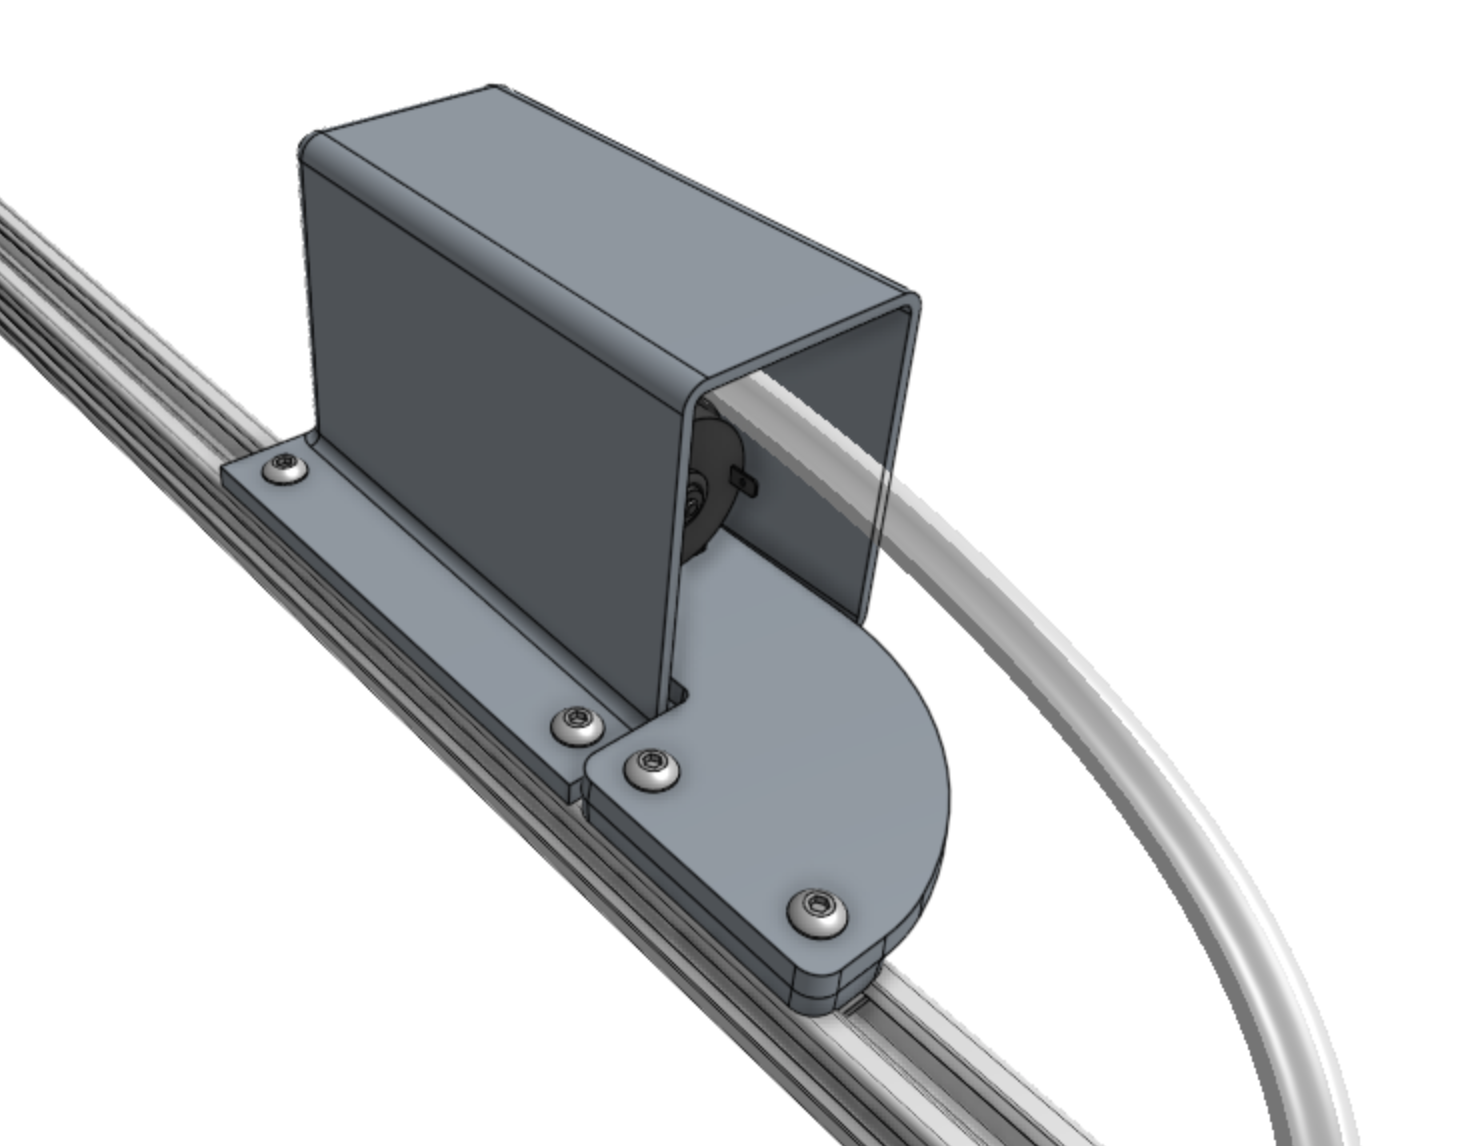
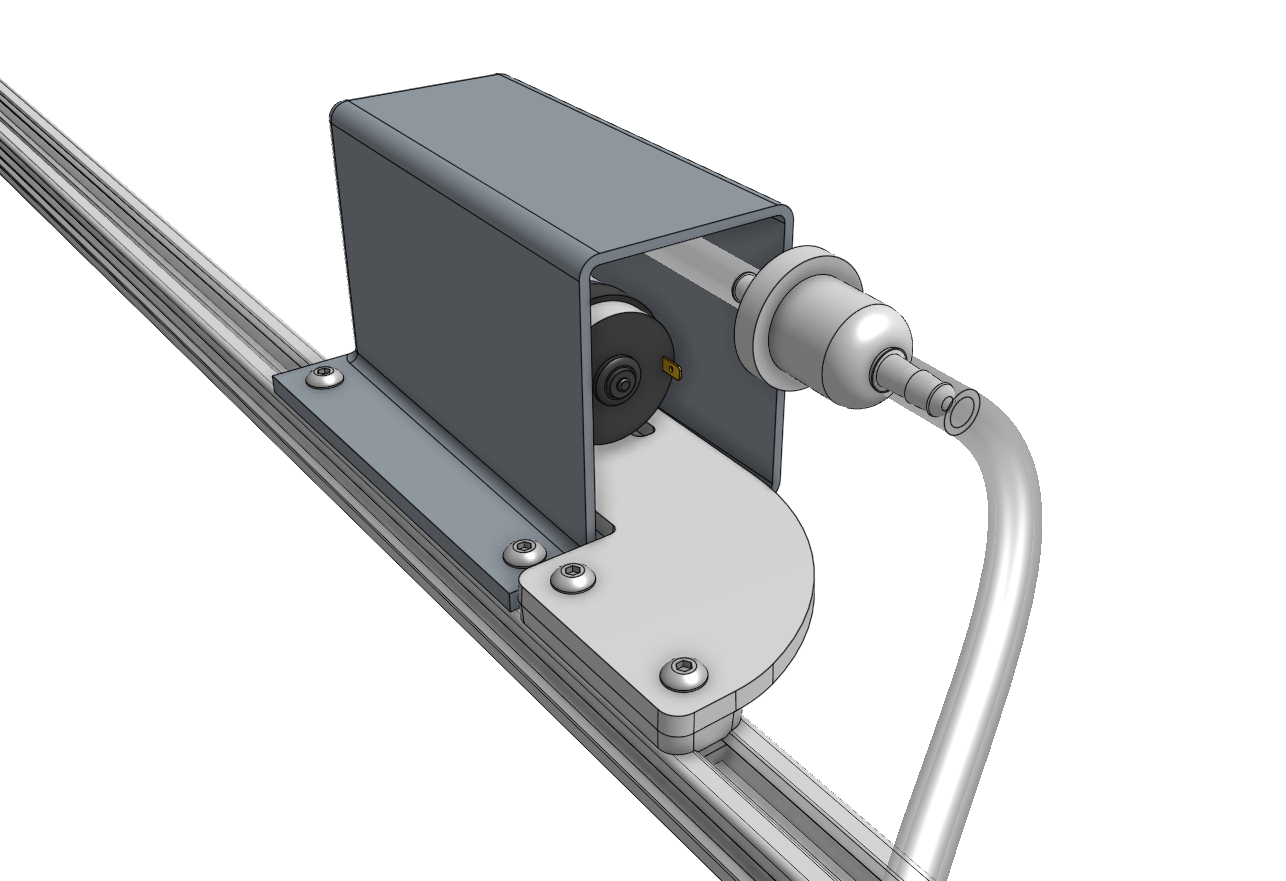
vacuum pump pre-assembly and troubleshooting (#7)

Changed region(s): [[0.0, 0.0613, 0.9331, 1.0]]

diff --git a/v1.0/Extras/seeds.md b/v1.0/Extras/seeds.md
@@ -1,0 +1,90 @@
+---
+title: "Seeds"
+slug: "seeds"
+description: "Tips for selecting seeds to use with FarmBot"
+---
+
+* toc
+{:toc}
+
+There are three main considerations when choosing what to plant with FarmBot:
+1. [Plant size and shape](#plant-size-and-shape)
+2. [Crop requirements](#crop-requirements)
+3. [Seed size](#seed-size)
+
+# Plant size and shape
+
+{%
+include callout.html
+type="success"
+title="The optimal choice"
+content="The most optimal crops for FarmBot are small to medium in size and grow in a relatively predictable shape. For example: Kale, Spinach, Lettuce, Arugula, Chard, Beets, and Bok Choy."
+%}
+
+{%
+include callout.html
+type="warning"
+title="Tall crops and FarmBot's gantry don't mix"
+content="Tall crops such as Corn or Sunflowers that will grow to exceed the ~0.5m height of the gantry are not recommended to be grown in the main space of the FarmBot's raised bed. Such crops may prevent FarmBot from moving, or the FarmBot may destroy the plants once they are too tall.
+
+You _can_ grow tall crops at the very ends of the bed, where they will not prevent the gantry from moving."
+%}
+
+{%
+include callout.html
+type="warning"
+title="Use caution with indeterminate crops"
+content="Crops that grow in an indeterminate fashion such as Watermelon or Pumpkin may cause interference with FarmBot's movements because the plants may grow in unexpected directions or fruit in unexpected locations. Indeterminate crops may also cause issues with weed detection, with the potential to significantly hinder performance or create false detections. Vining plants such as Tomatoes may grow to interfere with FarmBot rolling along the bed, causing a hardware jam.
+
+You _can_ grow indeterminate crops at the very ends of the bed, where they can be trained (by hand) to grow out and away from the FarmBot's mechanical systems."
+%}
+
+# Crop requirements
+
+As with all methods of growing, you will need to choose crops that are well suited for your geographic location, FarmBot location, soil conditions, and the time of year. Specific things to consider include:
+
+* Sun requirements (full sun, partial sun, etc)
+* Optimal soil properties (well draining, high carrying capacity, etc)
+* Minimum and maximum temperatures
+* Threat of frost, high winds, birds, harmful insects, etc
+* Planting depth
+* Recommended planting season
+* Transplanting/thinning needs
+
+{%
+include callout.html
+type="success"
+title="Tap into local knowledge"
+content="We recommend visiting your local nursery, hardware store, or gardening club and talking to an expert for your area. They will be able to recommend crops based on your conditions. If there are no experts available, use the information on the back of the seed packets and get ready to experiment!"
+%}
+
+# Seed size
+
+## Planting with FarmBot
+
+The seeder uses a luer lock needle implement design, so different needle diameters can be used for different sizes of seed. Lettuces, Kale, and Chard seeds will all work fine. Extremely small seeds have the possibility of being sucked into the vacuum system, while very large/heavy seeds may be difficult to pick up. Remember that FarmBot can only plant seeds, so starter plants and bulbs can only be used if planted [manually](#manual-planting).
+
+## Pelleted seeds
+
+Many seeds are very small, lightweight, and/or irregularly shaped. Seeds of this nature can be difficult for FarmBot to work with:
+
+* Too many seeds may get sucked onto the needle at once.
+* Seeds may get sucked through the needle and clog the vacuum pump.
+* Irregular seed surfaces may prevent reliable suction holding power.
+
+If you encounter problems with the seeds you want to use, we recommend purchasing **pelleted seeds**. Pelleted seeds are seeds coated with a biodegradable material that ensures they are of a uniform size and shape (usually a sphere). Pelleted seeds are specifically designed for use with farming equipment because they are easier and more reliable for machines to work with. When using pelleted seeds with FarmBot, your FarmBot will be able to more reliably pick up one seed at a time and place it in its intended location.
+
+There are many online suppliers of pelleted seeds, such as [Johnny's Seeds](https://www.johnnyseeds.com/featured/pelleted-seeds/) and [High Mowing Seeds](https://www.highmowingseeds.com/pelleted-seed-varieties.html). You may also be able to find pelleted seeds locally.
+
+## Manual planting
+
+If a seed won't work with any size of luer lock seeder needle, you can still grow it with FarmBot. Examples include tubers, bulbs, or very small seeds like those of an Orchid.
+
+For manual planting, we recommend first adding the plants to your farm designer map in the web app. Then, you can instruct FarmBot to move to each plant location and either point or poke a hole in the ground where the plant should be. Then you can either drop some seeds in the hole, or dig and plant a bulb.
+
+{%
+include callout.html
+type="success"
+title="Share your experience"
+content="Tried out a new crop? Share how things went on the [community forum](http://forum.farmbot.org)!"
+%}

diff --git a/v1.0/manufacturing/pre-assembly/z-axis.md b/v1.0/manufacturing/pre-assembly/z-axis.md
@@ -36,6 +36,7 @@ description: "Pre-assembly instructions for the FarmBot Express and Express XL Z
 |200mm Zip Tie                 |2
 
 # Step 1: Mount the vacuum pump
+
 Attach the **vacuum pump mount** to the the **z-axis extrusion** using two **M5 x 16mm screws** and one **60mm nut bar**. The bottom of the mount should be 185mm from the bottom of the extrusion.
 
 ![z axis extrusion with vacuum pump mount](_images/z_axis_extrusion_with_vacuum_pump_mount.png)
@@ -44,20 +45,25 @@ Securely tighten the **vacuum pump** onto the **vacuum pump mount** using two **
 
 ![vacuum pump on mount closeup](_images/vacuum_pump_on_mount_closeup.png)
 
-Press one of the **vacuum tubes** onto the inlet of the **vacuum pump**. Then press the **inline filter** onto the open end of the tube. Then press the second vacuum tube onto the open end of the inline filter.
+Press one of the **vacuum tubes** onto the **inlet** of the **vacuum pump**. Then press the **inline filter** onto the open end of the tube. Then press the second vacuum tube onto the open end of the inline filter.
 
+{% include gallery.html images="
+![vacuum pump inlet](_images/vacuum_tube_assembly_inlet_detail.png)
 ![vacuum tube assembly](_images/vacuum_tube_assembly.png)
+" %}
 
 Attach the **vacuum pump housing** to the **z-axis extrusion** using two **M5 x 10mm screws** and **10mm nut bars**.
 
 ![vacuum pump housing](_images/vacuum_pump_housing.png)
 
 # Step 2: Mount the cable carrier supports
+
 Attach the four **40mm vertical cable carrier supports** to the **z-axis extrusion** using **M5 x 10mm screws** and **40mm nut bars**. The space between all supports should be 180mm.
 
 ![mount z-axis cable carrier supports](_images/mount_z-axis_cable_carrier_supports.png)
 
 # Step 3: Mount the motor
+
 Attach the **z-axis motor mount** to the **z-axis extrusion** using two **M5 x 10mm screws** and one **60mm nut bar**. The recessed lip of the motor mount should be 60mm from the top of the extrusion.
 
 ![z axis motor mount](_images/z_axis_motor_mount.png)
@@ -65,8 +71,6 @@ Attach the **z-axis motor mount** to the **z-axis extrusion** using two **M5 x 1
 Position the **motor** on the mount with the motor's connector facing the extrusion. Then secure the motor in place with four **M3 x 12mm screws**.
 
 ![z axis motor](_images/z_axis_motor.png)
-
-
 
 {%
 include callout.html
@@ -76,6 +80,7 @@ content="The following step requires the [z-axis cable carrier to be loaded with
 %}
 
 # Step 4: Mount the cable carrier
+
 Position the **loaded z-axis cable carrier** in the **cable carrier supports** such that the camera is located at the bottom of the extrusion. Secure the cable carrier to the **vertical cable carrier support** using two **M5 x 16mm screws** and **M5 flange locknuts**.
 
 {% include gallery.html images="
@@ -86,20 +91,23 @@ Position the **loaded z-axis cable carrier** in the **cable carrier supports** s
 _Note: not all cables are shown_
 
 # Step 5: Connect the z-axis motor cable
+
 Feed the **z-axis motor cable** up through the slots in the four **cable carrier supports** and the slot in the **z-axis motor mount**. Then plug the cable into the **motor**.
 
 ![z axis with motor cable highlighted](_images/z_axis_with_motor_cable_highlighted.png)
 
 # Step 6: Connect the vacuum pump cable
+
 Feed the **vacuum pump cable** up through the slot in the first **cable carrier support** and then plug the connectors into the **vacuum pump's terminals**.
 
-
 # Step 7: Mount the motor housing
+
 Mount the **50mm vertical motor housing** using two **M5 x 10mm screws** and one **60mm nut bar**. The housing should fit snugly in the motor mount's recessed lip. The top of the motor housing should also be flush with the top of the extrusion, which may require a slight adjustment of the motor mount's position.
 
 ![z axis with motor housing closeup](_images/z_axis_with_motor_housing_closeup.png)
 
 # Step 8: Attach the leadscrew
+
 Insert the **leadscrew** fully into the **5mm to 8mm shaft coupler** and tighten the setscrews.
 
 ![z axis leadscrew with shaft coupler](_images/z_axis_leadscrew_with_shaft_coupler.png)
@@ -107,7 +115,3 @@ Insert the **leadscrew** fully into the **5mm to 8mm shaft coupler** and tighten
 Slide the **5mm to 8mm shaft coupler** onto the **motor shaft**, ensuring that the setscrews are aligned with the flat sides of the motor shaft. Ensure there is approximately 1-3mm of space between the end of the motor shaft and the end of the leadscrew - they should **not** be touching inside the coupler. Tighten the setscrews.
 
 ![z axis with leadscrew](_images/z_axis_with_leadscrew.png)
-
-
-
-

diff --git a/v1.0/Extras/troubleshooting/picking-up-seeds.md b/v1.0/Extras/troubleshooting/picking-up-seeds.md
@@ -1,0 +1,40 @@
+---
+title: "Picking Up Seeds"
+slug: "picking-up-seeds"
+description: "The FarmBot fails to pick up seeds entirely, frequently drops seeds when moving, or sucks seeds fully into the needle or vacuum system."
+---
+
+* toc
+{:toc}
+
+# 1. Consider seed characteristics
+
+Seed size, weight, and shape can have considerable impact on the effectiveness and reliability of FarmBot's needle and vacuum pump based seeding mechanism. Seeds should not be excessively small or large, cannot be too heavy, and are ideally of a round, smooth shape. [Pelleted seeds](../seeds.md#pelleted-seeds) are specifically designed for use with farming equipment and are an ideal choice for use with FarmBot. Consult the [seeds page](../seeds.md) for more details.
+
+# 2. Choose the correct needle size
+
+Included with every FarmBot kit are three different luer lock needle sizes that can be easily swapped in and out of the seed injector. This allows you to choose the best needle size for the seeds you are working with. Generally speaking, a larger diameter needle should be used for larger, heavier seeds, while a smaller diameter needle should be used for smaller, lighter seeds. See the [seeds](../seeds.md) page for more details.
+
+If the needle is too small, then the vacuum pump will not be able to create enough suction to consistently and reliably pick up a larger, heavier seed. In some cases, the seed may get picked up but then dropped when FarmBot is moving in the X, Y, and Z directions. In either case, try switching to a larger needle size.
+
+If the needle is too large, then the seeds may accidentally get sucked fully into the needle or vacuum system. If this happens, you will need to remove the seed from the system or else risk total suction loss and malfunction. Once all seeds are removed from the system, switch to a smaller needle size.
+
+# 3. Check that the vacuum pump tube is connected to the inlet of the vacuum pump
+
+The vacuum pump has an inlet port that sucks air in and an outlet port that blows air out. The ports are denoted by arrows embossed into the black plastic of the vacuum pump. Double check that the vacuum pump tube running between the 3-in-1 tool head and the pump is connected to the **inlet port** of the pump.
+
+![vacuum pump inlet](_images/vacuum_pump_inlet.jpg)
+
+# 4. Check the tube for kinks
+
+If the vacuum pump tube is kinked, then airflow will be restricted and suction power at the needle will be significantly diminished. Ensure there are no kinks in the vacuum pump tube.
+
+# 5. Check the needle and vacuum system for clogs and contamination
+
+If the needle, seeder, vacuum pump tube, or vacuum pump become clogged with dirt, water, seeds, or other contamination, then the system can lose suction power and cease to function. In some cases, a clogged vacuum pump can actually start *blowing* air instead of sucking it in!
+
+The most likely location for a clog to occur is in the needle. If the needle becomes clogged, first try rinsing it with warm water. If that doesn't work, try inserting a straightened paper clip or other small piece of metal into the needle to dislodge any seeds or other contaminants. If you are unable to remove the clog, you will need to discard the needle and use another one.
+
+The most likely location for contamination to affect the system is inside the vacuum pump. The vacuum pump is a [diaphragm-based pump design](https://en.wikipedia.org/wiki/Diaphragm_pump) that will lose suction power if contaminants such as dirt, water, or seeds, are present on the diaphragm. If you suspect that the vacuum pump is contaminated, remove the four screws holding the two plastic shell components together. Then carefully remove the rubber diaphragm and clean both sides. Reinsert the diaphragm and screw the pump back together.
+
+Using [pelleted seeds](../seeds.md#pelleted-seeds) or other naturally smooth, round shaped seeds can reduce the likelihood of future contamination.

diff --git a/v1.0/Extras/troubleshooting.md b/v1.0/Extras/troubleshooting.md
@@ -15,10 +15,7 @@ title="We're here to help"
 content="Still having issues? Please email support@farm.bot or consider posting in the [community forum](https://forum.farmbot.org)."
 %}
 
-
-
-
-
 # What's next?
 
  * [Faulty E-Stop Button](troubleshooting/faulty-e-stop-button.md)
+ * [Picking Up Seeds](troubleshooting/picking-up-seeds.md)
